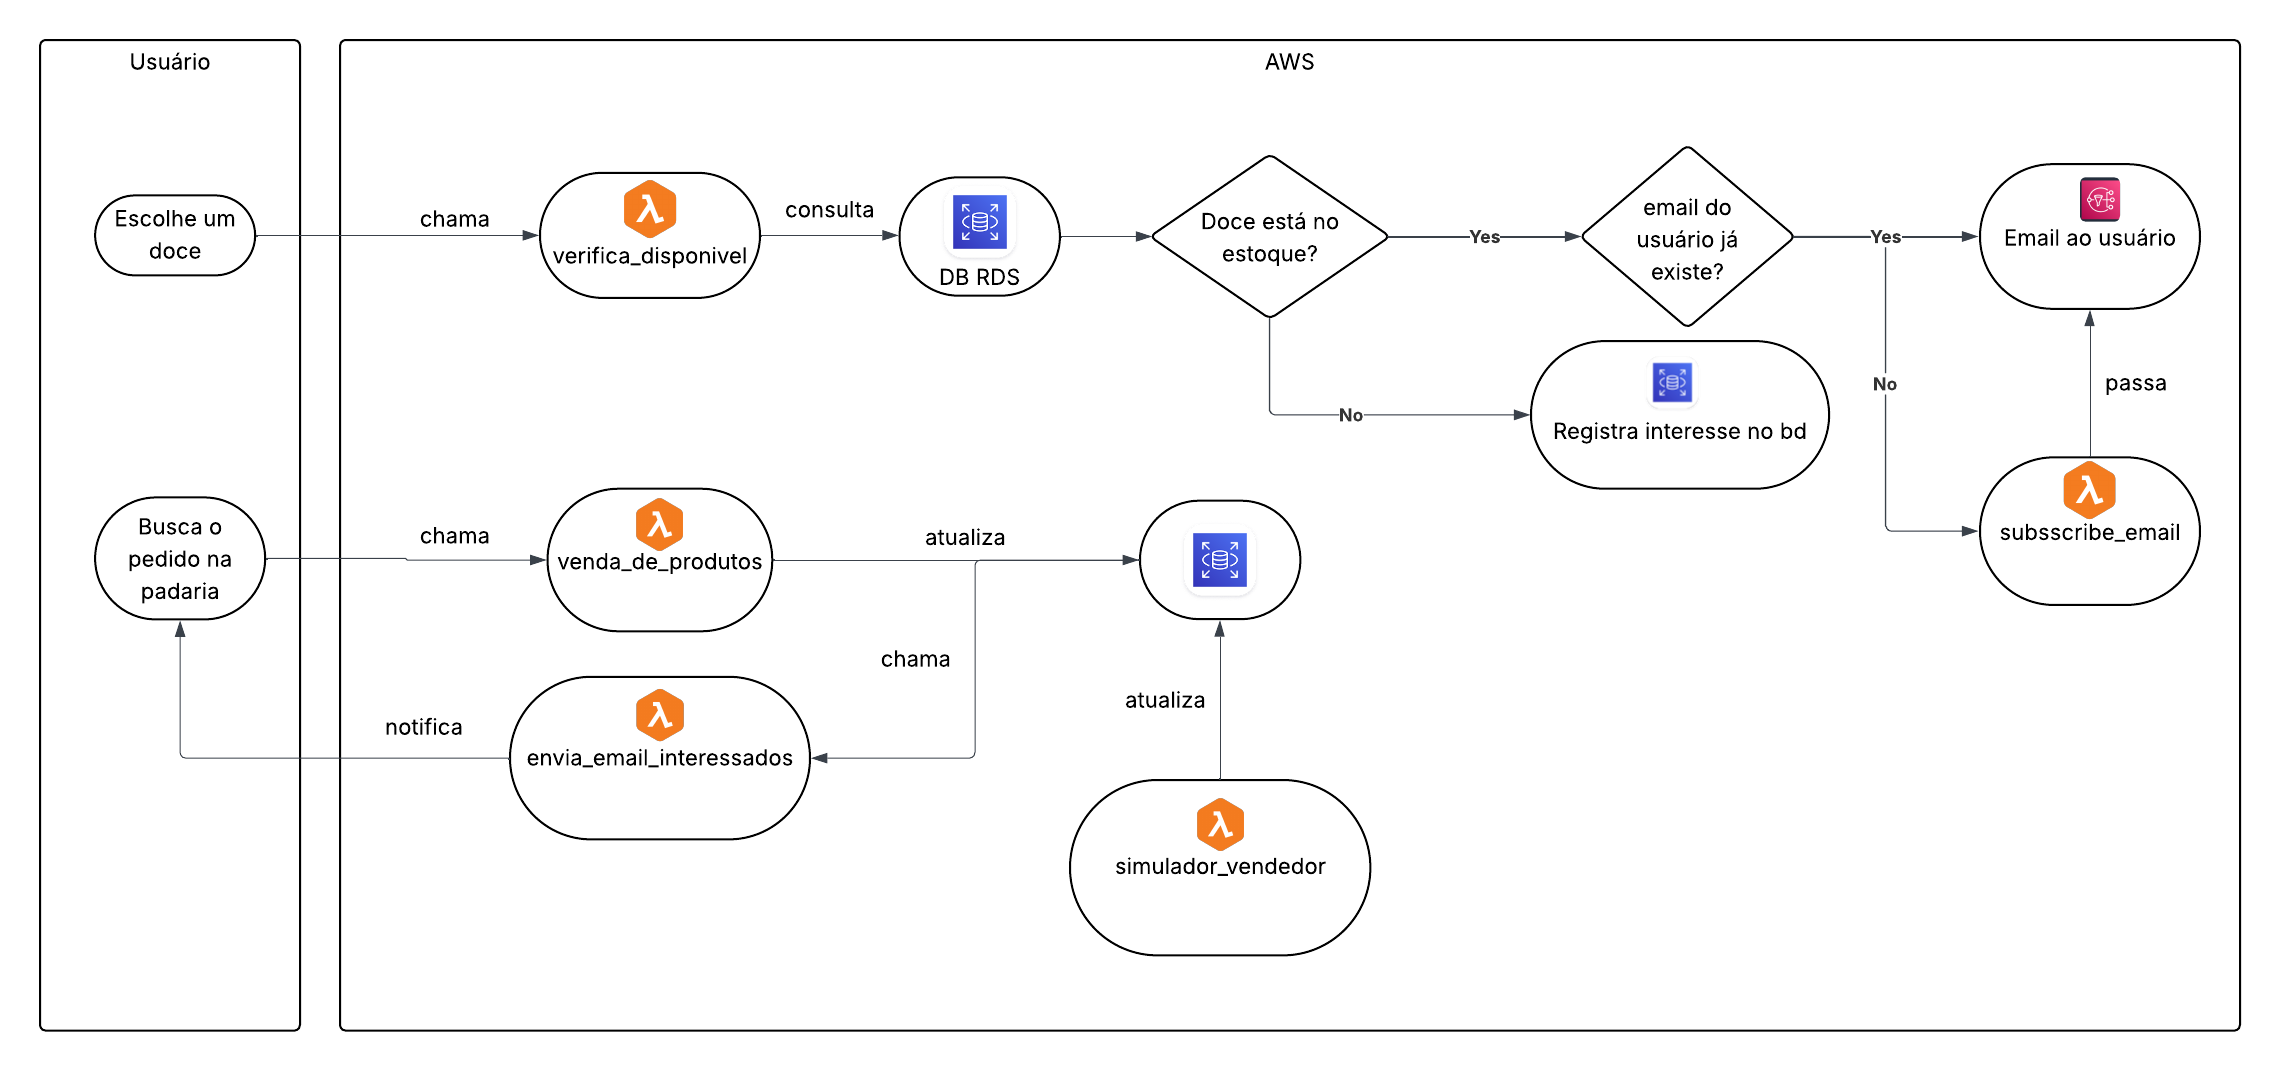
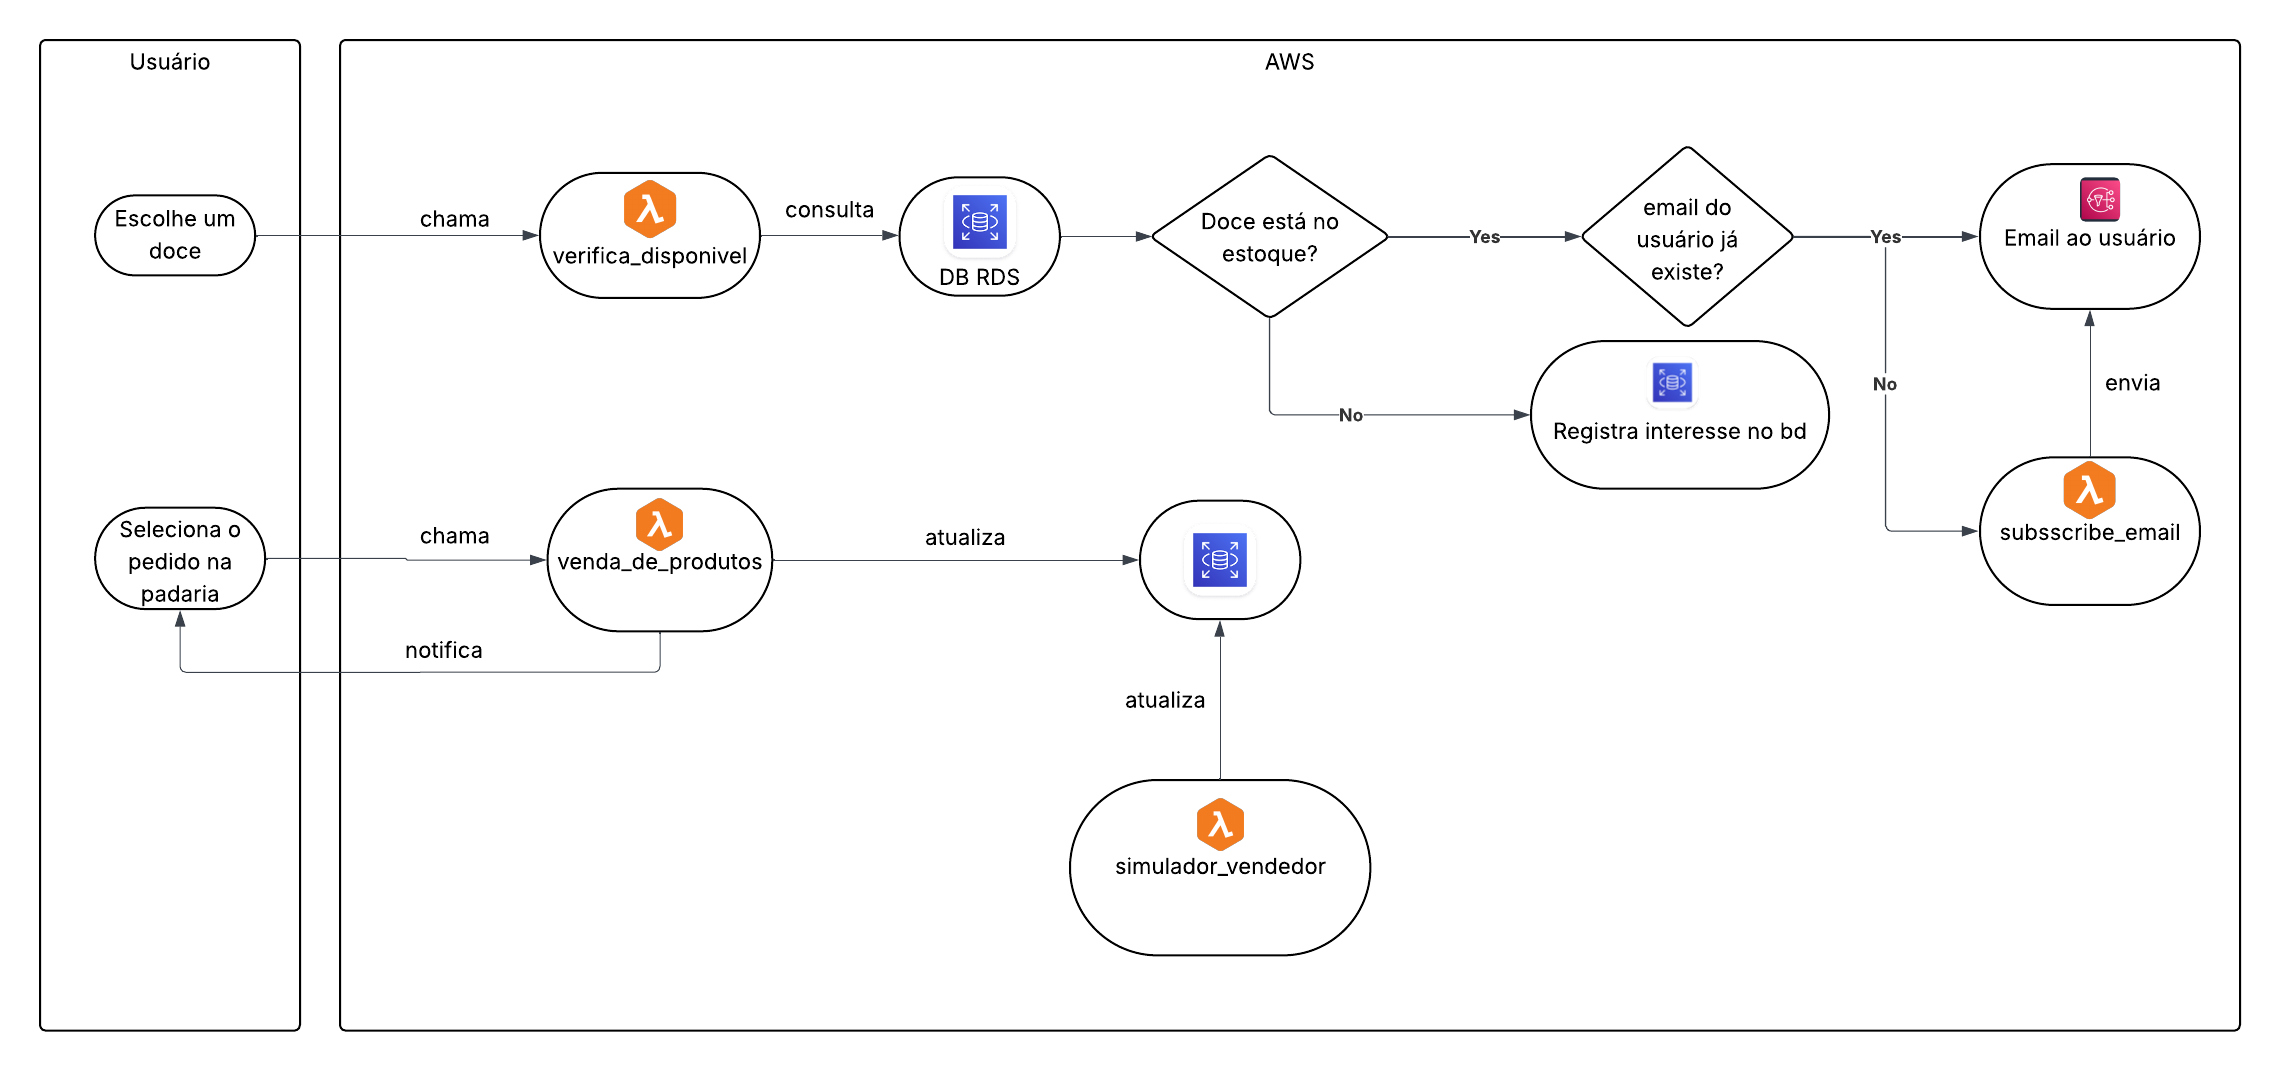
diagramas + readme atualizados

diff --git a/README.md b/README.md
@@ -14,12 +14,213 @@ Aplicação para uma padraria inteligente usando a nuvem da Amazon (AWS). A apli
 ## 🤝 Membros da dupla
 
 Lívia Lutz dos Santos - 2211055
-
 Thiago Pereira Camerato - 2212580
 
 ## 📌 Objetivo
 
 Desenvolver uma aplicação web para gerenciamento de reservas de quitutes em uma padaria virtual, integrando serviços da AWS (Lambda, RDS, SNS) para automatizar o controle de estoque e notificações aos clientes.
+
+## 📋 Relatório de Implementação
+
+### ✅ O que funciona
+
+**Backend Django:**
+- ✅ Sistema completo de modelos (Item, Reserva, Notificacao, EmailSubscription)
+- ✅ Views para listagem, detalhamento e reserva de produtos
+- ✅ Sistema de notificações por email via Amazon SNS
+- ✅ Interface web responsiva com templates HTML/CSS
+- ✅ Validação de disponibilidade de produtos
+
+**Banco de Dados:**
+- ✅ Integração com MySQL (RDS) e SQLite (desenvolvimento)
+- ✅ Tabelas para itens, reservas, notificações e inscrições de email
+
+**Integração AWS:**
+- ✅ Amazon SNS para envio de notificações por email
+- ✅ Tópicos SNS configurados (ProdutoDisponivel, EnviaEmail)
+- ✅ Sistema de inscrição de emails no SNS
+
+**Interface do Usuário:**
+- ✅ Página inicial com captura de email
+- ✅ Listagem de produtos disponíveis
+- ✅ Página de detalhes do produto
+- ✅ Formulários de reserva e notificação
+- ✅ Páginas de confirmação de sucesso/erro
+- ✅ Navegação responsiva com CSS
+
+
+### ❌ O que não funciona
+   - Conforme as especificações do trabalho no enunciado, não houve nenhuma funcionalidade que testamos e não funcionou
+
+## ✅ Funcionalidades Implementadas
+
+### Backend Django
+- **Modelos de Dados**: Item, Reserva, Notificacao, EmailSubscription
+- **Views**: ItemListView, ItemDetailView, ItemReserveView, ItemNotifyView
+- **Integração AWS**: Chamadas para Lambda functions e SNS
+
+### Banco de Dados
+- **Esquema**: Tabelas criadas para itens, reservas e notificações
+- **Integração**: Suporte a MySQL (RDS) e SQLite (desenvolvimento)
+
+### Funções Lambda da AWS
+- **simulador_vendedor**: Popula banco de dados com produtos
+- **venda_de_produtos**: Atualiza estoque, envia emails para retirar produtos e registra usuários na espera caso o produto não esteja disponível para retirar
+- **subscribe_email**: Gerencia inscrições SNS dos emails dos usuários
+
+### Amazon SNS
+- **Tópicos**: ProdutoDisponivel e EnviaEmail criados
+- **Notificações**: Emails de confirmação de reserva enviados
+- **Subscriptions**: Sistema de inscrição de emails
+
+### Interface Web
+- **Templates**: Páginas responsivas com CSS
+- **Navegação**: Homepage, lista de produtos, detalhes, formulários
+- **Feedback**: Páginas de sucesso/erro para operações
+
+## 🔄 Funcionamento Atual do Sistema
+
+### Fluxo Principal - Cliente
+
+1. **Acesso Inicial:**
+   - Cliente acessa `http://localhost:8000`
+   - Informa seu email na página inicial
+   - Email é armazenado na sessão
+
+2. **Navegação de Produtos:**
+   - Visualiza lista de produtos disponíveis
+   - Pode ver detalhes de cada produto
+   - Produtos indisponíveis são marcados como tal
+
+3. **Reserva de Produtos:**
+   - Para produtos disponíveis: Reserva imediata + email de confirmação
+   - Para produtos indisponíveis: Opção de solicitar notificação
+   - Sistema chama Lambda `venda_de_produtos` para processamento
+
+4. **Notificações:**
+   - **Funcionando**: Confirmação de reserva por email via SNS
+
+### Fluxo Administrativo - Lambda Functions
+
+**Entrega de Produtos (`simulador_vendedor`):**
+- Popula banco de dados com produtos
+- Chamada via interface administrativa em `/entregar-produtos/`
+
+**Processamento de Vendas (`venda_de_produtos`):**
+- Verifica disponibilidade e atualiza estoque
+- Envia confirmação por email
+
+**Subscrição de Emails (`subscribe_email`):**
+- Gerencia inscrições no SNS para notificações
+
+## 🔧 Instalação e Configuração
+
+### Pré-requisitos
+- Python 3.12+
+- Conta AWS com acesso ao RDS, Lambda e SNS
+- MySQL Workbench (opcional, para administração do banco)
+
+### Passos de Instalação
+
+1. **Clone o repositório:**
+   ```bash
+   git clone https://github.com/livlutz/INF1304-T2.git
+   cd INF1304-T2
+   ```
+
+2. **Configure ambiente virtual:**
+   ```bash
+   python -m venv venv
+   source venv/bin/activate  # Linux/Mac
+   # ou
+   venv\Scripts\activate     # Windows
+   ```
+
+3. **Instale dependências:**
+   ```bash
+   pip install -r requirements.txt
+   ```
+
+4. **Configure variáveis de ambiente:**
+
+   Crie um arquivo `.env` na raiz do projeto:
+   ```env
+   # Banco de dados RDS
+   DB_HOST=seu-endpoint-rds.us-east-1.rds.amazonaws.com
+   DB_USER=seu_usuario
+   DB_PASSWORD=sua_senha
+   DB_NAME=padaria-db
+   DB_PORT=3306
+
+   ```
+
+5. **Execute migrações do Django:**
+   ```bash
+   python manage.py makemigrations
+   python manage.py migrate
+   ```
+
+6. **Deploy das Lambda Functions:**
+
+   No AWS Lambda Console, crie as seguintes funções:
+   - `simulador_vendedor` → `vendaProduto/simulador_vendedor.py`
+   - `venda_de_produtos` → `vendaProduto/venda_de_produtos.py`
+   - `subscribe_email` → `subscribeEmail/subscribe_email.py`
+
+   Configure as variáveis de ambiente em cada função.
+
+7. **Configure SNS Topics:**
+
+   No AWS SNS Console:
+   - Crie tópico `ProdutoDisponivel`
+   - Crie tópico `EnviaEmail`
+   - Configure subscrições de email conforme necessário
+
+### Inicialização da Aplicação
+
+```bash
+# Execute o script de inicialização, que também pode substituir os passos 2, 3 e 5
+./run.sh
+
+# Ou manualmente:
+python manage.py runserver
+```
+
+Acesse: `http://localhost:8000`
+
+
+## 📖 Instruções de Operação
+
+### Operação Normal (Cliente)
+
+1. **Acesse a aplicação** em `http://localhost:8000`
+2. **Digite seu email** na página inicial
+3. **Navegue pelos produtos** disponíveis
+4. **Para produtos disponíveis**: Clique para reservar
+5. **Para produtos indisponíveis**: Solicite notificação por email
+6. **Aguarde confirmação** por email via SNS
+
+
+### Testando Funcionalidades
+
+#### Teste de Reserva
+1. Acesse produto disponível
+2. Faça reserva
+3. Verifique se email de confirmação foi enviado
+4. Confirme se estoque foi atualizado
+
+#### Teste de Notificação
+1. Solicite notificação para produto indisponível
+2. Use função administrativa para "reabastecer"
+3. Verifique se notificação foi enviada
+
+### Monitoramento
+
+- **Django Logs**: Visíveis no terminal onde o servidor roda
+- **Lambda Logs**: CloudWatch Logs no AWS Console
+- **RDS Queries**: MySQL Workbench ou `python manage.py dbshell`
+- **SNS Messages**: AWS SNS Console → tópicos criados
+
 
 ## 📊 Diagramas
 
@@ -33,178 +234,6 @@ Desenvolver uma aplicação web para gerenciamento de reservas de quitutes em um
 
 ![UML Verifica Disponibilidade](diagramas/UML_verifica_disponibilidade.png)
 
-#### Envio de Email
-
-![UML Envio de Email](diagramas/UML_envio_de_email.png)
-
 #### Venda de Produtos
 
 ![UML Venda de Produtos](diagramas/UML_venda_de_produtos.png)
-
-## Requisitos Implementados
-
-**Funções Lambda :**
-- `Entrega de produtos` - Popula o banco de dados com 20 produtos da padaria, simulando a entrega de produtos pelo fornecedor
-- `Verificação de disponibilidade de um produto` - Verifica disponibilidade de produtos e registra interesse de clientes em caso de indisponibilidade
-- `Envio de emails` - Notifica clientes quando produtos desejados chegam e estão disponíveis para serem retirados na padaria
-- `Venda de um produto` - Atualiza estoque após venda de produtos
-
-**Banco de Dados:**
-- MySQL no Amazon RDS com tabelas:
-  - `consumidor_item` - Catálogo de produtos (Id, nome e quantidade em estoque)
-  - `consumidor_reserva` - Registro de reservas dos clientes
-  - `consumidor_notificacao` - Fila de notificações para clientes aguardando produtos
-
-**Envio de E-mail:**
-- Amazon SNS (Simple Notification Service) através do tópico `ProdutoDisponivel`
-- Notificações automáticas quando produtos ficam disponíveis por email
-- Confirmação de reserva por e-mail
-
-**Interface com Usuário:**
-- Aplicação web Django com templates HTML/CSS
-- Navegação de produtos disponíveis
-- Sistema de reserva com captura de e-mail
-- Notificações automáticas de disponibilidade por email
-
-### Funcionamento
-
-1. **Cliente interessado em produto:**
-   - Acessa a interface web, informa seu e-mail e seleciona o produto desejado
-
-2. **Produto disponível:**
-   - Sistema envia e-mail imediatamente via SNS
-   - Cliente deve comparecer à padaria para efetivar a compra
-   - Estoque é atualizado após confirmação
-
-3. **Produto indisponível:**
-   - Sistema registra interesse no banco de dados
-   - Quando o produto chegar com a reposição do estoque pelo fornecedor, disparamos notificações por email aos interessados na fila de espera
-
-
-4. **Controle de estoque:**
-   - Todas as informações armazenadas no MySQL (RDS)
-   - Funções lambda gerenciam entrada e saída de produtos
-   - Banco de dados mantém histórico de reservas e vendas
-
-## 🔧 Instalação da Aplicação
-
-### Passos de Instalação
-
-1. **Clone o repositório:**
-   ```bash
-   git clone https://github.com/livlutz/INF1304-T2.git
-   cd INF1304-T2
-   ```
-
-   Como alternativa podemos também dar um fork no repositório.
-
-2. **Crie um ambiente virtual:**
-   ```bash
-   python -m venv venv
-   source venv/bin/activate  # Linux/Mac
-   # ou
-   venv\Scripts\activate  # Windows
-   ```
-
-3. **Instale as dependências:**
-   ```bash
-   pip install -r requirements.txt
-   ```
-
-4. **Configure o banco de dados RDS:**
-   - Crie uma instância MySQL no Amazon RDS
-   - Anote o endpoint, usuário e senha
-   - Execute o schema em `database/schema.sql` (se aplicável)
-
-5. **Configure variáveis de ambiente:**
-   - Crie um arquivo `.env` na raiz do projeto:
-   ```env
-   DB_HOST=seu-endpoint-rds.us-east-1.rds.amazonaws.com
-   DB_USER=seu_usuario
-   DB_PASSWORD=sua_senha
-   DB_NAME=padaria-db
-   DB_PORT=3306
-   ```
-
-6. **Configure o SNS na AWS:**
-   - Acesse o Console AWS → SNS
-   - Crie um tópico chamado `ProdutoDisponivel`
-   - Inscreva seu e-mail no tópico para receber notificações
-   - Confirme a inscrição através do e-mail recebido
-
-
-7. **Execute as migrações do Django:**
-   ```bash
-   python manage.py migrate
-   ```
-
-8. **Deploy das Funções Lambda:**
-   - Acesse AWS Lambda Console
-   - Crie 5 funções Lambda com Python 3.11+
-   - Faça upload dos arquivos em `lambda_functions/`:
-     - `simulador_vendedor.py`
-     - `verifica_disponivel.py`
-     - `envia_email_interessados.py`
-     - `venda_de_produtos.py`
-     - `subscribe_email.py`
-   - Configure variáveis de ambiente nas funções Lambda (credenciais RDS)
-
-9. **Rode o script para atualizar o banco de dados:**
-   ```bash
-   ./atualizar_banco.sh
-   ```
-
-## 📖 Instruções de Operação
-
-### Iniciar a Aplicação
-
-```bash
-python manage.py runserver
-```
-
-ou, alternativamente podemos executar o script bash na raiz do projeto para levantar a aplicação:
-
-```bash
-./run.sh
-```
-
-Acesse em seu navegador: `http://localhost:8000` ou navegue até a aba Portas do terminal e clique no link gerado na porta 8000.
-
-### Fluxo de Uso - Cliente
-
-1. **Acessar a aplicação:**
-   - Abra `http://localhost:8000`
-   - Insira seu e-mail na página inicial
-   - Clique em "Continuar"
-
-2. **Navegar pelos produtos:**
-   - Visualize a lista de quitutes disponíveis
-   - Veja quantidade em estoque de cada item
-
-3. **Reservar um produto:**
-   - Clique no produto desejado
-   - Preencha seu nome e quantidade
-   - Clique em "Reservar"
-
-4. **Receber notificações:**
-   - **Se disponível:** Recebe e-mail imediato para comparecer à padaria
-   - **Se indisponível:** Fica na fila e recebe e-mail quando produto chegar
-
-### Operações Administrativas (Lambda Functions)
-
-**Adicionar produtos ao estoque:**
-- Execute a função Lambda `entrega_de_produtos`
-- Popula o banco de dados com alguns itens em certas quantidades
-- Dispara notificações para clientes na fila de espera aguardando seus respectivos itens chegarem no estoque da padaria
-
-**Verificar disponibilidade:**
-- Execute a função Lambda `verifica_disponivel`
-- Verifica se um produto requisitado pelo usuário se encontra no estoque
-
-**Notificar clientes:**
-- Execute a função Lambda `envia_email_interessados`
-- Envia e-mails para todos os clientes na fila de um produto específico
-
-**Registrar venda:**
-- Execute a função Lambda `venda_de_produtos`
-- Atualiza estoque após compra confirmada, diminuindo a quantidade dos respectivos itens.
